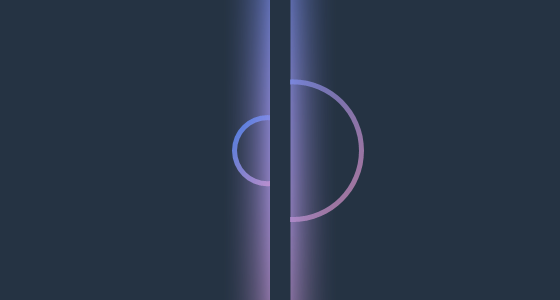
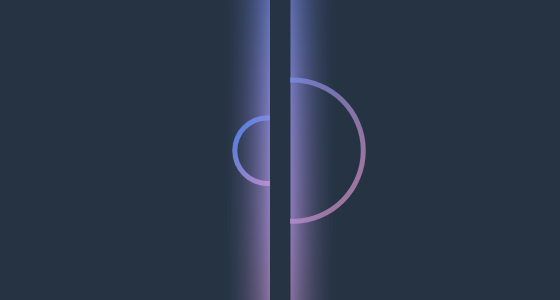
docs: publish v0.1.9 capsule, file drop and circular trail fixes

Changed region(s): [[0.5161, 0.33, 0.6679, 0.75], [0.5161, 0.24, 0.6071, 0.33], [0.3946, 0.48, 0.425, 0.51]]

diff --git a/docs/VALIDATION.md b/docs/VALIDATION.md
@@ -1,4 +1,28 @@
-# 0.1.8 系统动画、胶囊与文件管理验证
+# 0.1.9 胶囊横线、真实拖入与圆周拖尾验证
+
+日期：2026-10-29，单台 Windows 11 x64 开发机，实际缩放 200%。
+
+## 原因与修复
+
+- 胶囊的外阴影超出 64 DIP 透明窗口，在底边被裁成淡横线。旧版截图最后一行仍有 412 个非透明像素、最大透明度 49；移除小胶囊外阴影，并把入场/退场位移限制在图层内部后，真实 Electron 浅/深色截图在出现、停留与淡出过程中的最后三行透明度全部为 0。大共享卡片保留自身阴影。
+- 旧版把 DOM FileList 直接传过隔离桥。真实磁盘拖入探针显示：浏览器文件数 3，旧写法得到路径 0，先转普通数组后得到 3。修复界面转换、错误反馈和复制型拖入提示，不接受浏览器合成文件冒充磁盘路径。
+- 旧版沿起点到终点使用可重复的直线渐变，近闭合圆周上会反复重置明暗。新回归在旧代码上复现相邻样本透明度 155→88；现在按曲线弧长着色，覆盖取最大值，避免圆头叠加和反复渐变。100/200/300% 缩放的近闭环逐点检查通过。
+- 原绘制线程每帧只取最新位置，会把帧间曲线压成弦。改为最多 512 点的并发视觉缓冲，保留原始时刻、拒绝旧 epoch 和超过 140 ms 的历史；过载仅保留新点。尾部按时间插值裁切，实际输入/网络不增加插值等待，接管后 1 秒仍结束。
+
+## 已通过
+
+- 70 组原生、20 项 Node、9 个真实双进程回环场景。
+- 真实 Electron 五页；通过 Chromium 拖入事件注入真实磁盘文件列表，经过实际沙箱预加载桥、界面发送处理和已配对的两端原生核心。中文文件、空文件、嵌套文件夹和空目录在确认接收后保存，内容逐字节一致。此检查不是浏览器合成 File，也没有绕过界面直接调用 sendFiles 代替拖入。
+- 文件定位调用、实际回收站操作、移除记录、发送端保护；最小化和 20 次关闭到托盘继续保留连接/PID/健康钩子/Raw Input/独立输入与绘制线程。
+- 胶囊 16 种方向/状态的真实移动采样、6 种提示、浅/深色底边透明检查、可见帧计时、穿透和不激活检查。
+- 17 个实际透明图层场景，包括一帧前突发的圆周轨迹不会坍缩成短弦；GDI 计数 24→24。4 个双向控制器实显通过，包含两端中文提示。
+- 纯画笔圆周预览与耗时记录保存在本机 artifacts/effects-preview-0.1.9；这是单机离屏画笔测量，受负载影响，不是物理双机帧率或端到端延迟指标。
+
+物理双机 BLE、不同显示配置、资源管理器实际 OLE 拖入手感与长期运行仍需实机验收。当前支持将本机文件拖入 LinkedMouse 发送区；跨电脑桌面直接拖放不是本次检查范围。
+
+接口依据：[Electron 磁盘 File 路径和隔离桥](https://www.electronjs.org/docs/latest/api/web-utils)、[Microsoft 渐变平铺模式](https://learn.microsoft.com/en-us/dotnet/api/system.drawing.drawing2d.lineargradientbrush.wrapmode)。
+
+# 0.1.8 历史：系统动画、胶囊与文件管理验证
 
 日期：2026-10-29。单台 Windows 11 x64 开发机，200% 缩放。用户已确认另一台电脑缺少动画的原因是关闭了 Windows 动画效果。
 

diff --git a/docs/TESTING.md b/docs/TESTING.md
@@ -2,7 +2,15 @@
 
 本文件是物理设备联调清单，不代表已经通过。
 
-## 0.1.8 本次重点验收
+## 0.1.9 本次重点验收
+
+1. 两端从托盘退出旧版，升级到 0.1.9。检查顶部胶囊在深浅背景和窗口上方没有底边淡横线；双向中文和图标方向保持。
+2. 连接后，从文件管理器把中文文件、多个文件、空文件及带子目录/空目录的文件夹拖入程序发送区；发送端应出现任务和反馈，接收端确认后核对内容、层级和同名保护。拒收、取消后可正常重试。
+3. 未连接时拖入本地文件，应提示连接，不能悄悄导航或发送；拖入网页文字不创建文件任务。普通权限文件管理器向普通权限 LinkedMouse 拖入验收。
+4. 跨屏后的 1 秒内做快速圆圈、近闭环、S 形和突然折返，检查明暗连续、无周期条带，切换窗口/最小化时输入仍及时。100/200/300% 缩放各检查；绘制特效不能延长输入路径或控制权。
+5. 在文件传输与 CPU 忙碌时重复跨屏/画圆，记录两端版本、缩放、刷新率和蓝牙通道；单机画笔耗时不替代这一检查。
+
+## 0.1.8 历史重点验收
 
 1. 两端从托盘退出旧版后升级至 0.1.8，核对窗口和原生核心版本；配对可保留。
 2. 在原先关闭 Windows 动画的电脑安装：应开启当前用户的系统动画并出现一次告知；原先开启的电脑安装不提示。静默安装后首次打开再告知，便携版首次运行检查一次。之后手动关闭系统动画，再次普通启动应保留该选择。

diff --git a/CHANGELOG.md b/CHANGELOG.md
@@ -1,5 +1,16 @@
 # 更新记录
 
+## 0.1.9 — 2026-10-29
+
+**两端从托盘退出旧版后升级到 0.1.9。** 配对和个人设置保留。
+
+- 去掉提示胶囊被透明窗口底边裁切的外阴影，消除底部淡横线；蓝粉胶囊、顶部位置和双向中文提示保留。浅色、深色主题的窗口底部三行均为完全透明。
+- 修复真实文件拖入后没有发送的问题：在界面中将 FileList 转为普通 File 数组后再通过隔离桥，保留磁盘路径；支持多文件、中文名、空文件及嵌套/空文件夹，成功或失败均给出反馈。接收仍需确认。
+- 圆周拖尾按曲线长度渐隐，避免直线渐变在转弯、近闭环处重复成明暗条带；相邻段不叠加透明度。保留帧间有界轨迹，连续插值裁去过期尾部，减少快速画圆被压成短直线或尾部整段消失。
+- 拖尾只在接管后的 1 秒显示，绘制和短时轨迹处理在独立线程，不给实际鼠标移动添加平滑延迟。Windows 动画初始化、双向胶囊、文件定位/回收站删除及默认关闭的本机输入接管继续提供。
+
+70 组原生、20 项 Node、9 个双进程回环通过；真实拖入事件经过界面和两端核心完成接收与逐字节校验。验证范围见[记录](docs/VALIDATION.md)，双机手感仍需[实机验收](docs/TESTING.md)。
+
 ## 0.1.8 — 2026-10-29
 
 **两端从托盘退出旧版后升级到 0.1.8。** 配对和个人设置保留。

diff --git a/THIRD_PARTY_NOTICES.md b/THIRD_PARTY_NOTICES.md
@@ -52,3 +52,7 @@ in the published engine distribution.
 LinkedMouse 0.1.8 updates the adapted HUD to Chinese state text, physical-layout
 direction, top placement, visible-frame timing and paired return events. The
 continuous joined gradient trail is a new painter change (2026-10-29).
+
+LinkedMouse 0.1.9 removes the small HUD drop shadow, fixes the disk-backed
+FileList bridge and adds bounded timestamped visual history with non-repeating
+arc-length trail rasterization (2026-10-29).
